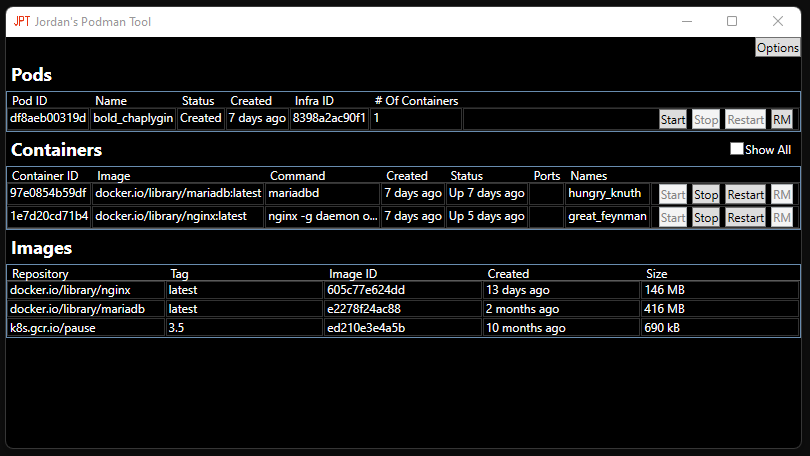
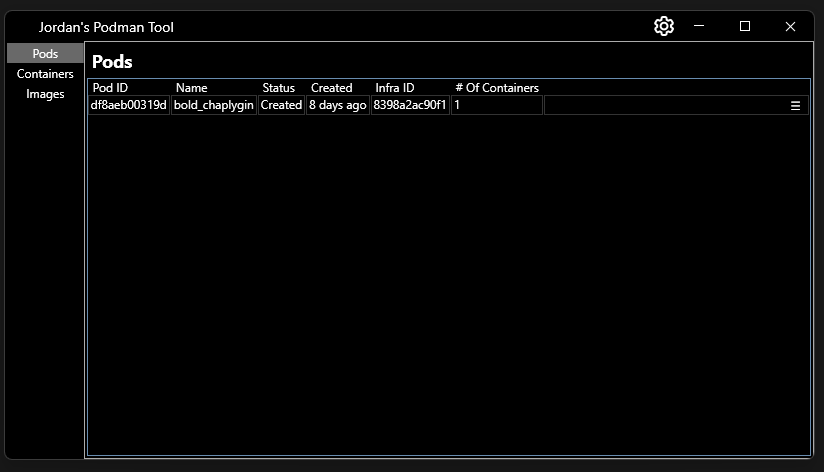
moved views into tabbed control, created custom title bar for main window

Changed region(s): [[0.0, 0.0, 1.0, 1.0]]

diff --git a/Jordans Podman Tool/View/MainView.xaml b/Jordans Podman Tool/View/MainView.xaml
@@ -5,20 +5,68 @@
         xmlns:mc="http://schemas.openxmlformats.org/markup-compatibility/2006"
         xmlns:local="clr-namespace:Jordans_Podman_Tool.View"
         mc:Ignorable="d"
-        Title="Jordan's Podman Tool" Height="450" Width="800" Closing="Window_Closing">
-    <Grid>
-        <Grid.ColumnDefinitions>
-            <ColumnDefinition Width="*"/>
-        </Grid.ColumnDefinitions>
-        <Grid.RowDefinitions>
-            <RowDefinition Height="Auto" />
-            <RowDefinition Height="Auto" />
-            <RowDefinition Height="Auto" />
-            <RowDefinition Height="Auto" />
-        </Grid.RowDefinitions>
-        <Button Grid.Row="0" HorizontalAlignment="Right" Click="OpenOptions">Options</Button>
-        <local:PodView Grid.Row="1" x:Name="podView"/>
-        <local:ContainerView Grid.Row="2" x:Name="containerView"/>
-        <local:ImageView Grid.Row="3" x:Name="imageView"/>
-    </Grid>
+        Title="Jordan's Podman Tool" Height="450" Width="800" Closing="Window_Closing" WindowStyle="None" StateChanged="Window_StateChanged">
+    <WindowChrome.WindowChrome>
+        <WindowChrome CaptionHeight="32" ResizeBorderThickness="{x:Static SystemParameters.WindowResizeBorderThickness}"/>
+    </WindowChrome.WindowChrome>
+    <Border Name="rootGrid" Style="{StaticResource WindowMainPanelStyle}">
+        <Grid Name="contentGrid">
+            <Grid.RowDefinitions>
+                <!--  Title bar  -->
+                <RowDefinition Height="30" />
+                <!--  Page Content  -->
+                <RowDefinition Height="*" />
+            </Grid.RowDefinitions>
+            <!-- Title Bar Grid -->
+            <Grid Grid.Row="0">
+                <Grid.ColumnDefinitions>
+                    <ColumnDefinition Width="Auto" />
+                    <ColumnDefinition Width="*" />
+                    <ColumnDefinition Width="Auto" />
+                    <ColumnDefinition Width="Auto" />
+                    <ColumnDefinition Width="Auto" />
+                    <ColumnDefinition Width="Auto" />
+                </Grid.ColumnDefinitions>
+                <Image Grid.Column="0" Width="22" Height="22" Margin="4" Source="/JPT.ico" />
+                <TextBlock Grid.Column="1" Margin="4 0 0 0" VerticalAlignment="Center" FontSize="14" Text="Jordan's Podman Tool">
+                    <TextBlock.Style>
+                        <Style TargetType="TextBlock">
+                            <Style.Triggers>
+                                <DataTrigger Binding="{Binding IsActive, RelativeSource={RelativeSource AncestorType=Window}}" Value="False">
+                                    <Setter Property="Foreground" Value="{DynamicResource WindowTitleBarInactiveText}" />
+                                </DataTrigger>
+                            </Style.Triggers>
+                        </Style>
+                    </TextBlock.Style>
+                </TextBlock>
+                <Button Grid.Column="2" Click="OpenOptions" Width="24" Height="24" Style="{StaticResource TitleBarButtonStyle}">
+                    <Path Margin="2" Stretch="Fill" Stroke="{Binding Path=Foreground,RelativeSource={RelativeSource AncestorType={x:Type Button}}}" StrokeThickness="2" Fill="Black" Data="M19.14,12.94c0.04-0.3,0.06-0.61,0.06-0.94c0-0.32-0.02-0.64-0.07-0.94l2.03-1.58c0.18-0.14,0.23-0.41,0.12-0.61 l-1.92-3.32c-0.12-0.22-0.37-0.29-0.59-0.22l-2.39,0.96c-0.5-0.38-1.03-0.7-1.62-0.94L14.4,2.81c-0.04-0.24-0.24-0.41-0.48-0.41 h-3.84c-0.24,0-0.43,0.17-0.47,0.41L9.25,5.35C8.66,5.59,8.12,5.92,7.63,6.29L5.24,5.33c-0.22-0.08-0.47,0-0.59,0.22L2.74,8.87 C2.62,9.08,2.66,9.34,2.86,9.48l2.03,1.58C4.84,11.36,4.8,11.69,4.8,12s0.02,0.64,0.07,0.94l-2.03,1.58 c-0.18,0.14-0.23,0.41-0.12,0.61l1.92,3.32c0.12,0.22,0.37,0.29,0.59,0.22l2.39-0.96c0.5,0.38,1.03,0.7,1.62,0.94l0.36,2.54 c0.05,0.24,0.24,0.41,0.48,0.41h3.84c0.24,0,0.44-0.17,0.47-0.41l0.36-2.54c0.59-0.24,1.13-0.56,1.62-0.94l2.39,0.96 c0.22,0.08,0.47,0,0.59-0.22l1.92-3.32c0.12-0.22,0.07-0.47-0.12-0.61L19.14,12.94z M12,15.6c-1.98,0-3.6-1.62-3.6-3.6 s1.62-3.6,3.6-3.6s3.6,1.62,3.6,3.6S13.98,15.6,12,15.6z"/>
+                </Button>
+                <Button Grid.Column="3" Click="OnMinimizeButtonClick" RenderOptions.EdgeMode="Aliased" Style="{StaticResource TitleBarButtonStyle}">
+                    <Path Width="46" Height="32" Data="M 18,15 H 28" Stroke="{Binding Path=Foreground,RelativeSource={RelativeSource AncestorType={x:Type Button}}}" StrokeThickness="1" />
+                </Button>
+                <Button Name="maximizeButton" Grid.Column="4" Click="OnMaximizeRestoreButtonClick" Style="{StaticResource TitleBarButtonStyle}">
+                    <Path Width="46" Height="32" Data="M 18.5,10.5 H 27.5 V 19.5 H 18.5 Z" Stroke="{Binding Path=Foreground,RelativeSource={RelativeSource AncestorType={x:Type Button}}}" StrokeThickness="1" />
+                </Button>
+                <Button Name="restoreButton" Grid.Column="4" Click="OnMaximizeRestoreButtonClick" Style="{StaticResource TitleBarButtonStyle}">
+                    <Path Width="46" Height="32" Data="M 18.5,12.5 H 25.5 V 19.5 H 18.5 Z M 20.5,12.5 V 10.5 H 27.5 V 17.5 H 25.5" Stroke="{Binding Path=Foreground,RelativeSource={RelativeSource AncestorType={x:Type Button}}}" StrokeThickness="1" />
+                </Button>
+                <Button Grid.Column="5" Click="OnCloseButtonClick" Style="{StaticResource TitleBarCloseButtonStyle}">
+                    <Path Width="46" Height="32" Data="M 18,11 27,20 M 18,20 27,11" Stroke="{Binding Path=Foreground,RelativeSource={RelativeSource AncestorType={x:Type Button}}}" StrokeThickness="1" />
+                </Button>
+            </Grid>
+            <!-- Content -->
+            <TabControl Grid.Row="1" TabStripPlacement="Left">
+                <TabItem Header="Pods">
+                    <local:PodView x:Name="podView"/>
+                </TabItem>
+                <TabItem Header="Containers">
+                    <local:ContainerView x:Name="containerView"/>
+                </TabItem>
+                <TabItem Header="Images">
+                    <local:ImageView x:Name="imageView"/>
+                </TabItem>
+            </TabControl>
+        </Grid>
+    </Border>
 </Window>

diff --git a/Jordans Podman Tool/App.xaml b/Jordans Podman Tool/App.xaml
@@ -57,5 +57,97 @@
             <Setter Property="Background" Value="Black"/>
             <Setter Property="Foreground" Value="White"/>
         </Style>
+        <Style TargetType="TabControl">
+            <Setter Property="Background" Value="Black"/>
+            <Setter Property="Foreground" Value="White"/>
+        </Style>
+        <Style TargetType="TabItem">
+            <Setter Property="Background" Value="Black"/>
+            <Setter Property="Foreground" Value="White"/>
+            <Setter Property="Template">
+                <Setter.Value>
+                    <ControlTemplate TargetType="TabItem">
+                        <Grid Name="Panel">
+                            <ContentPresenter x:Name="ContentSite" VerticalAlignment="Center" HorizontalAlignment="Center" ContentSource="Header" Margin="10,2"/>
+                        </Grid>
+                        <ControlTemplate.Triggers>
+                            <Trigger Property="IsSelected" Value="True">
+                                <Setter TargetName="Panel" Property="Background" Value="DimGray"/>
+                            </Trigger>
+                            <Trigger Property="IsSelected" Value="False">
+                                <Setter TargetName="Panel" Property="Background" Value="Black"/>
+                            </Trigger>
+                        </ControlTemplate.Triggers>
+                    </ControlTemplate>
+                </Setter.Value>
+            </Setter>
+        </Style>
+        <Style TargetType="TabPanel">
+            <Setter Property="Background" Value="Black"/>
+        </Style>
+        <Style TargetType="Grid">
+            <Setter Property="Background" Value="Black"/>
+        </Style>
+        <Style x:Key="WindowMainPanelStyle" TargetType="{x:Type Border}">
+            <Setter Property="BorderBrush" Value="{DynamicResource WindowBorderBrush}" />
+            <Setter Property="BorderThickness" Value="1" />
+            <Style.Triggers>
+                <DataTrigger Binding="{Binding RelativeSource={RelativeSource FindAncestor, AncestorType={x:Type Window}}, Path=WindowState}" Value="Maximized">
+                    <Setter Property="BorderThickness" Value="0" />
+                </DataTrigger>
+            </Style.Triggers>
+        </Style>
+        <SolidColorBrush x:Key="Button.MouseOver.Background" Color="DimGray"/>
+        <SolidColorBrush x:Key="Button.Pressed.Background" Color="Gray"/>
+        <SolidColorBrush x:Key="Button.Close.MouseOver.Background" Color="DarkRed"/>
+        <SolidColorBrush x:Key="Button.Close.Pressed.Background" Color="Red"/>
+        <Style x:Key="TitleBarButtonStyle" TargetType="Button">
+            <Setter Property="Foreground" Value="White" />
+            <Setter Property="Padding" Value="0" />
+            <Setter Property="WindowChrome.IsHitTestVisibleInChrome" Value="True" />
+            <Setter Property="IsTabStop" Value="False" />
+            <Setter Property="Template">
+                <Setter.Value>
+                    <ControlTemplate TargetType="{x:Type Button}">
+                        <Border x:Name="border" Background="Transparent" BorderThickness="0" SnapsToDevicePixels="true">
+                            <ContentPresenter x:Name="contentPresenter" Margin="0" HorizontalAlignment="Center" VerticalAlignment="Center" Focusable="False" RecognizesAccessKey="True" />
+                        </Border>
+                        <ControlTemplate.Triggers>
+                            <Trigger Property="IsMouseOver" Value="true">
+                                <Setter TargetName="border" Property="Background" Value="{StaticResource Button.MouseOver.Background}" />
+                            </Trigger>
+                            <Trigger Property="IsPressed" Value="true">
+                                <Setter TargetName="border" Property="Background" Value="{StaticResource Button.Pressed.Background}" />
+                            </Trigger>
+                        </ControlTemplate.Triggers>
+                    </ControlTemplate>
+                </Setter.Value>
+            </Setter>
+        </Style>
+        <Style x:Key="TitleBarCloseButtonStyle" TargetType="Button">
+            <Setter Property="Foreground" Value="White" />
+            <Setter Property="Padding" Value="0" />
+            <Setter Property="WindowChrome.IsHitTestVisibleInChrome" Value="True" />
+            <Setter Property="IsTabStop" Value="False" />
+            <Setter Property="Template">
+                <Setter.Value>
+                    <ControlTemplate TargetType="{x:Type Button}">
+                        <Border x:Name="border" Background="Transparent" BorderThickness="0" SnapsToDevicePixels="true">
+                            <ContentPresenter x:Name="contentPresenter" Margin="0" HorizontalAlignment="Center" VerticalAlignment="Center" Focusable="False" RecognizesAccessKey="True" />
+                        </Border>
+                        <ControlTemplate.Triggers>
+                            <Trigger Property="IsMouseOver" Value="true">
+                                <Setter TargetName="border" Property="Background" Value="{StaticResource Button.Close.MouseOver.Background}" />
+                                <Setter Property="Foreground" Value="{DynamicResource MouseOverWindowCloseButtonForegroundBrush}" />
+                            </Trigger>
+                            <Trigger Property="IsPressed" Value="true">
+                                <Setter TargetName="border" Property="Background" Value="{StaticResource Button.Close.Pressed.Background}" />
+                                <Setter Property="Foreground" Value="{DynamicResource MouseOverWindowCloseButtonForegroundBrush}" />
+                            </Trigger>
+                        </ControlTemplate.Triggers>
+                    </ControlTemplate>
+                </Setter.Value>
+            </Setter>
+        </Style>
     </Application.Resources>
 </Application>

diff --git a/Jordans Podman Tool/View/MainView.xaml.cs b/Jordans Podman Tool/View/MainView.xaml.cs
@@ -1,6 +1,9 @@
 using Jordans_Podman_Tool.Settings;
 using Jordans_Podman_Tool.ViewModel;
+using System;
+using System.Runtime.InteropServices;
 using System.Windows;
+using System.Windows.Interop;
 
 namespace Jordans_Podman_Tool.View
 {
@@ -19,6 +22,7 @@ namespace Jordans_Podman_Tool.View
             containerView.DataContext = containerVM;
             imageView.DataContext = imageVM;
             _optionsViewModel = optionsVM;
+            RefreshMaximizeRestoreButton();
         }
 
         private void Window_Closing(object sender, System.ComponentModel.CancelEventArgs e)
@@ -31,6 +35,143 @@ namespace Jordans_Podman_Tool.View
             OptionsView optionsVew = new();
             optionsVew.DataContext = _optionsViewModel;
             optionsVew.Show();
+        }
+
+        private void OnMinimizeButtonClick(object sender, RoutedEventArgs e)
+        {
+            this.WindowState = WindowState.Minimized;
+        }
+
+        private void OnMaximizeRestoreButtonClick(object sender, RoutedEventArgs e)
+        {
+            if (this.WindowState == WindowState.Maximized)
+            {
+                this.WindowState = WindowState.Normal;
+            }
+            else
+            {
+                this.WindowState = WindowState.Maximized;
+            }
+        }
+
+        private void OnCloseButtonClick(object sender, RoutedEventArgs e)
+        {
+            this.Close();
+        }
+        private void RefreshMaximizeRestoreButton()
+        {
+            if (this.WindowState == WindowState.Maximized)
+            {
+                this.maximizeButton.Visibility = Visibility.Collapsed;
+                this.restoreButton.Visibility = Visibility.Visible;
+            }
+            else
+            {
+                this.maximizeButton.Visibility = Visibility.Visible;
+                this.restoreButton.Visibility = Visibility.Collapsed;
+            }
+        }
+
+        private void Window_StateChanged(object sender, System.EventArgs e)
+        {
+            this.RefreshMaximizeRestoreButton();
+        }
+
+        protected override void OnSourceInitialized(EventArgs e)
+        {
+            base.OnSourceInitialized(e);
+            ((HwndSource)PresentationSource.FromVisual(this)).AddHook(HookProc);
+        }
+
+        public static IntPtr HookProc(IntPtr hwnd, int msg, IntPtr wParam, IntPtr lParam, ref bool handled)
+        {
+            if (msg == WM_GETMINMAXINFO)
+            {
+                // We need to tell the system what our size should be when maximized. Otherwise it will cover the whole screen,
+                // including the task bar.
+                MINMAXINFO mmi = (MINMAXINFO)Marshal.PtrToStructure(lParam, typeof(MINMAXINFO));
+
+                // Adjust the maximized size and position to fit the work area of the correct monitor
+                IntPtr monitor = MonitorFromWindow(hwnd, MONITOR_DEFAULTTONEAREST);
+
+                if (monitor != IntPtr.Zero)
+                {
+                    MONITORINFO monitorInfo = new MONITORINFO();
+                    monitorInfo.cbSize = Marshal.SizeOf(typeof(MONITORINFO));
+                    GetMonitorInfo(monitor, ref monitorInfo);
+                    RECT rcWorkArea = monitorInfo.rcWork;
+                    RECT rcMonitorArea = monitorInfo.rcMonitor;
+                    mmi.ptMaxPosition.X = Math.Abs(rcWorkArea.Left - rcMonitorArea.Left);
+                    mmi.ptMaxPosition.Y = Math.Abs(rcWorkArea.Top - rcMonitorArea.Top);
+                    mmi.ptMaxSize.X = Math.Abs(rcWorkArea.Right - rcWorkArea.Left);
+                    mmi.ptMaxSize.Y = Math.Abs(rcWorkArea.Bottom - rcWorkArea.Top);
+                }
+
+                Marshal.StructureToPtr(mmi, lParam, true);
+            }
+
+            return IntPtr.Zero;
+        }
+
+        private const int WM_GETMINMAXINFO = 0x0024;
+
+        private const uint MONITOR_DEFAULTTONEAREST = 0x00000002;
+
+        [DllImport("user32.dll")]
+        private static extern IntPtr MonitorFromWindow(IntPtr handle, uint flags);
+
+        [DllImport("user32.dll")]
+        private static extern bool GetMonitorInfo(IntPtr hMonitor, ref MONITORINFO lpmi);
+
+        [Serializable]
+        [StructLayout(LayoutKind.Sequential)]
+        public struct RECT
+        {
+            public int Left;
+            public int Top;
+            public int Right;
+            public int Bottom;
+
+            public RECT(int left, int top, int right, int bottom)
+            {
+                this.Left = left;
+                this.Top = top;
+                this.Right = right;
+                this.Bottom = bottom;
+            }
+        }
+
+        [StructLayout(LayoutKind.Sequential)]
+        public struct MONITORINFO
+        {
+            public int cbSize;
+            public RECT rcMonitor;
+            public RECT rcWork;
+            public uint dwFlags;
+        }
+
+        [Serializable]
+        [StructLayout(LayoutKind.Sequential)]
+        public struct POINT
+        {
+            public int X;
+            public int Y;
+
+            public POINT(int x, int y)
+            {
+                this.X = x;
+                this.Y = y;
+            }
+        }
+
+        [StructLayout(LayoutKind.Sequential)]
+        public struct MINMAXINFO
+        {
+            public POINT ptReserved;
+            public POINT ptMaxSize;
+            public POINT ptMaxPosition;
+            public POINT ptMinTrackSize;
+            public POINT ptMaxTrackSize;
         }
     }
 }
